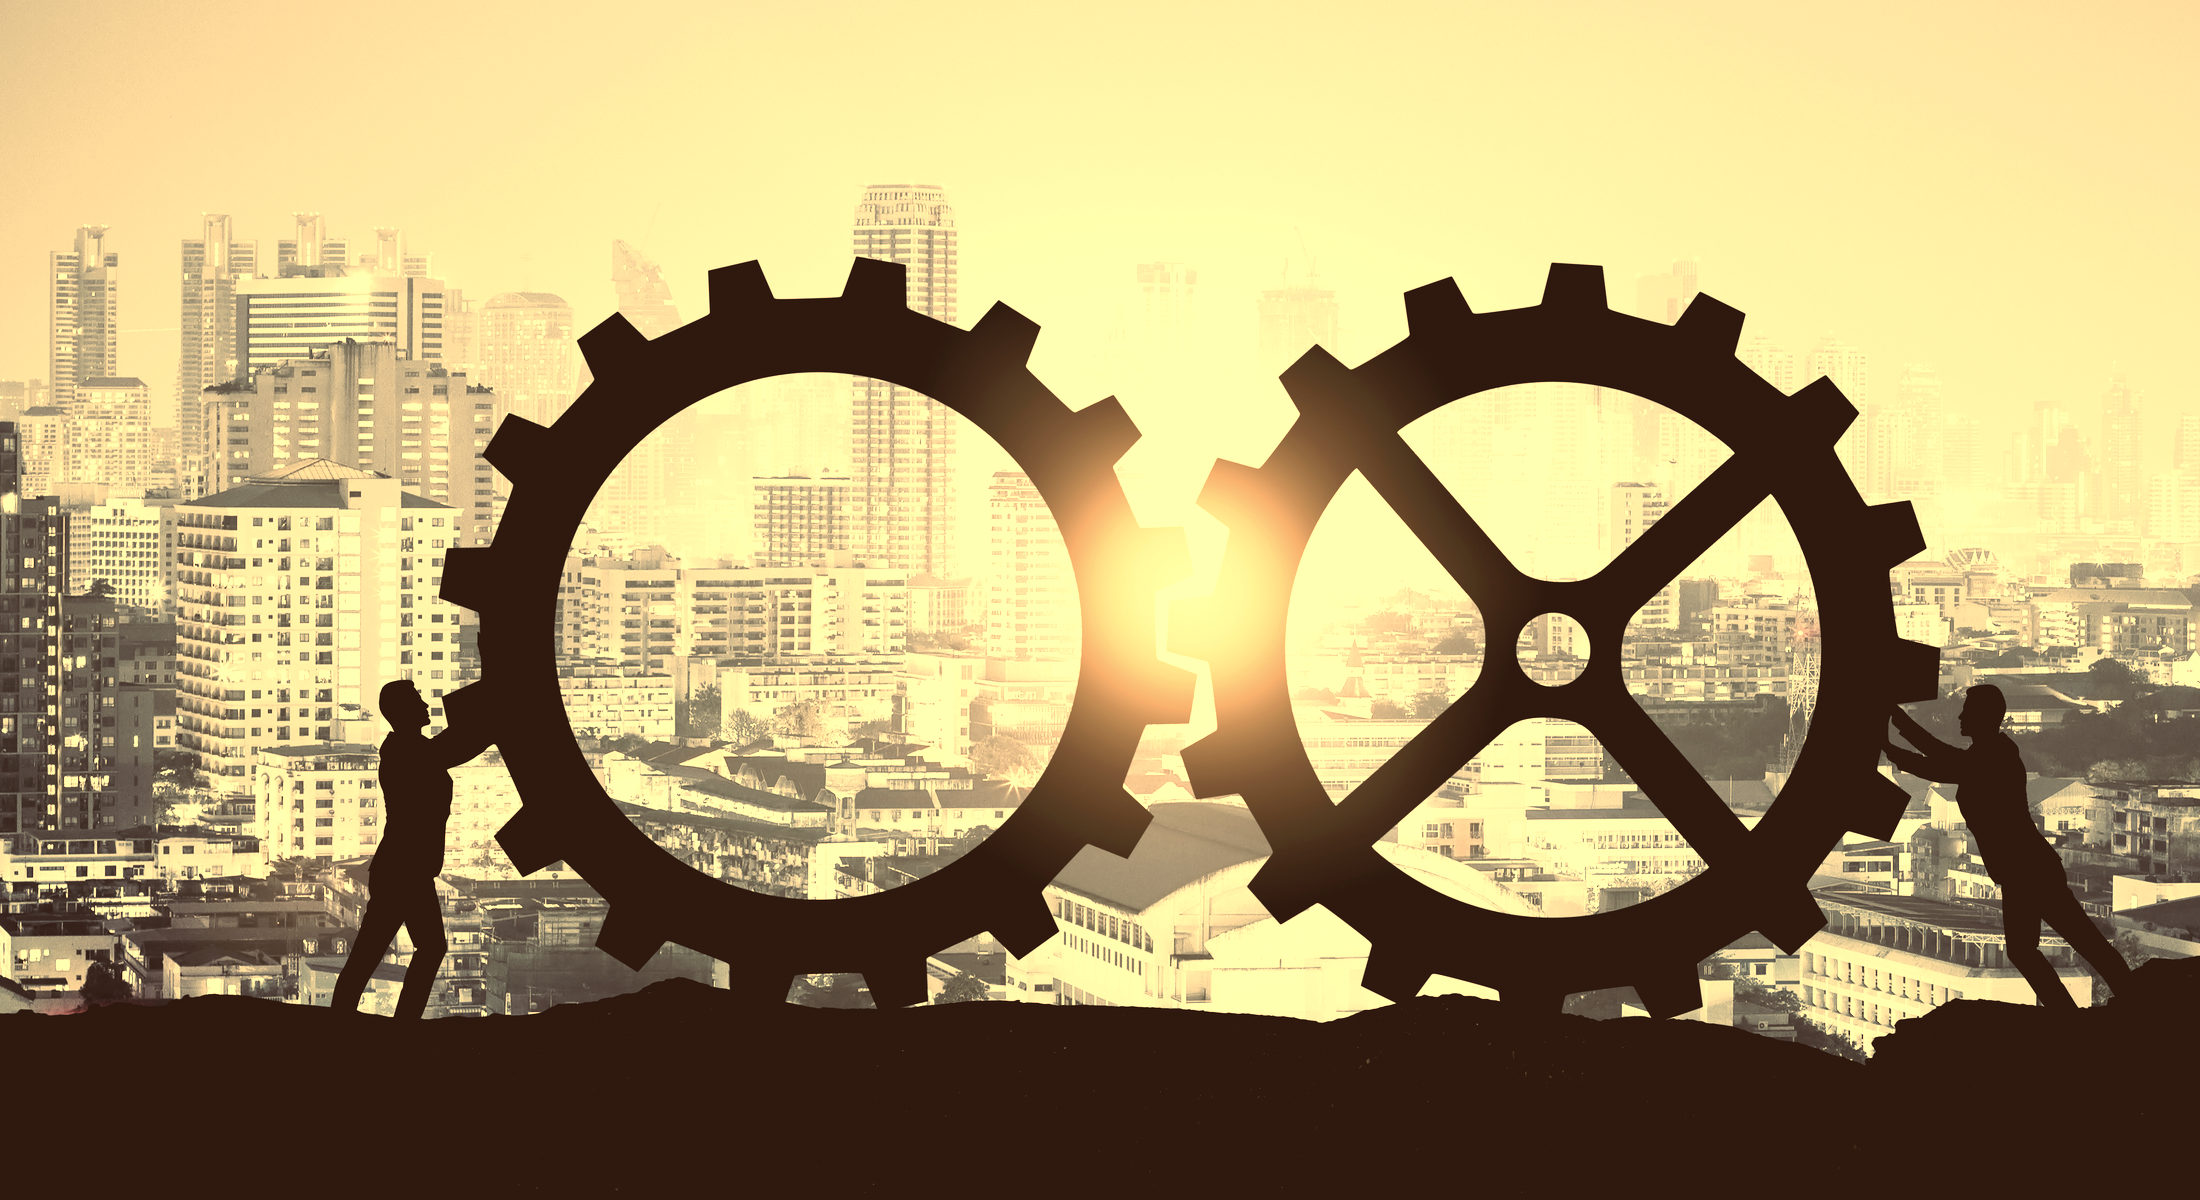
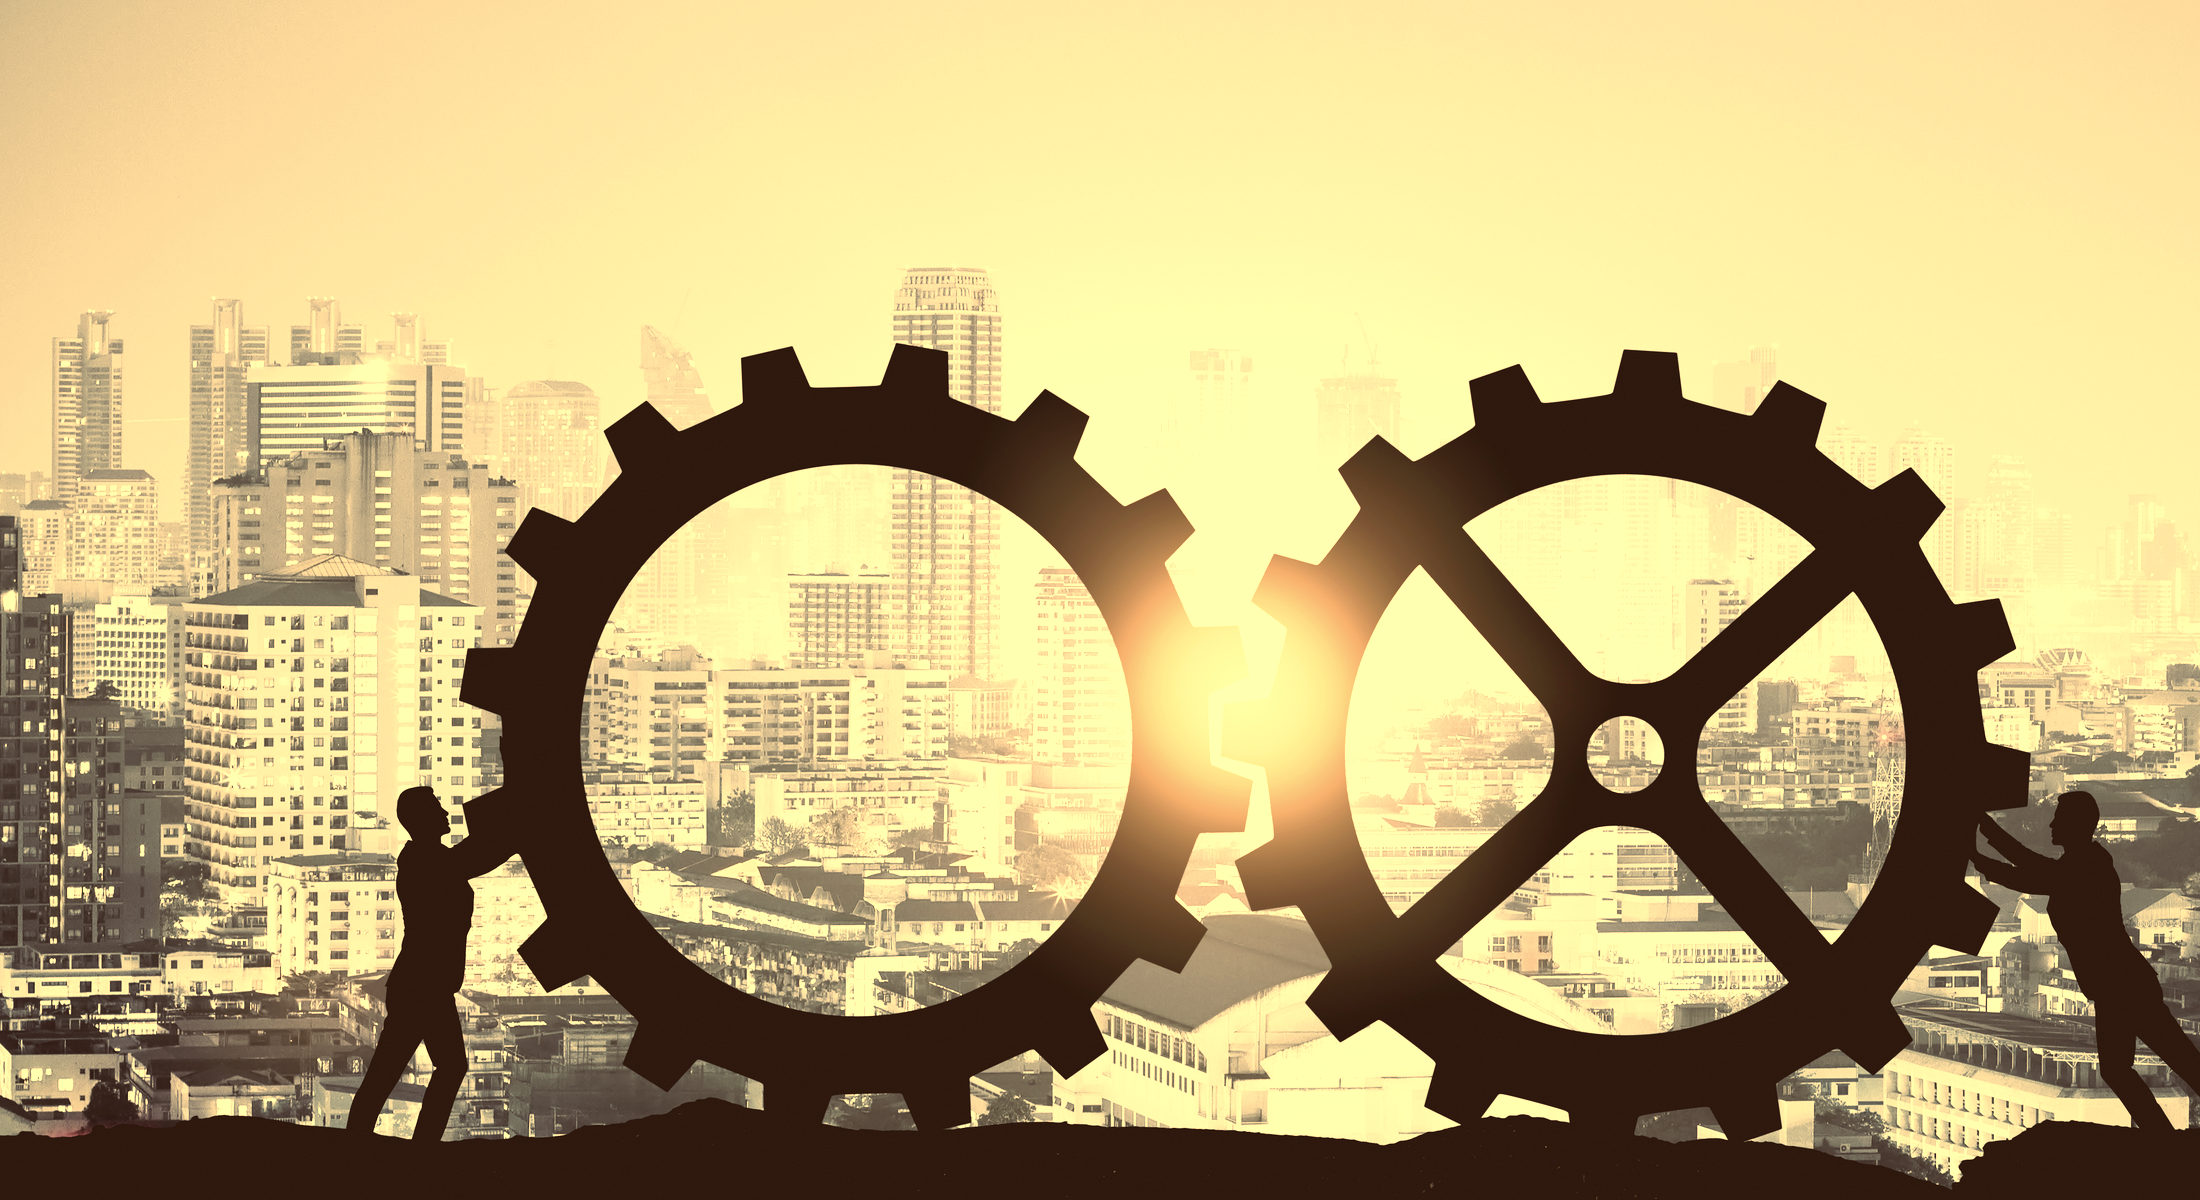
Platform hero: push the composition right and frame higher
The subject sat dead centre in the source and the crop limiter only allowed ten
percent off the width, so it could never reach the target position. This image
is now allowed a deeper crop, which lands it at 58 percent.

Stopped short of the full shift: going further magnified the gear enough to cut
off the second one and both figures, and the meshing gears are the whole point
of the picture. Framed high as well, which drops most of the flat black lower
third the source carries.

diff --git a/build/sideaware.py b/build/sideaware.py
@@ -32,7 +32,7 @@ PLAN = [
     ("plat-integration",  "r", 0.52, False, 1.08, 0.45),
     ("home-work",         "l", 0.30, False, None, 0.52),   # cranes left, open sky right
     ("plat-deploy",       "r", 0.62, False, 1.06, 0.48),
-    ("plat-hero",         "r", 0.50, False, 1.02, 0.30),   # crop up, the lower third is flat black
+    ("plat-hero",         "r", 0.50, False, 1.02, 0.12),   # frame high, the lower third is flat black
     ("cap-hero",          "r", 0.72, False, 1.30, 0.50),   # dark control room, needs a real lift
     ("uc-hero",           "r", 0.45, True,  1.02, 0.62),   # mirror so the pair sits right, frame low for the crane
     ("company-hero",      "r", 0.72, False, 1.02, 0.42),   # group already sits right, only a light touch
@@ -46,6 +46,9 @@ MILD = {"area-operations", "fam-pulse", "area-owners", "company-hero"}     # a g
 TARGET = {"l": 0.34, "r": 0.66}   # pulled in from the edges so less width is thrown away
 MIN_KEEP = 0.90                    # never crop away more than this much width
 KEEP_ALL = {"cap-hero", "company-hero"}   # the group is the subject, keep the full width
+# a subject sitting dead centre cannot reach the target on a 10% crop, so these
+# are allowed to give up more width
+DEEP = {"plat-hero": 0.86}
 
 
 def build(name, side, subj, mirror, lift, anchor):
@@ -59,7 +62,7 @@ def build(name, side, subj, mirror, lift, anchor):
 
     # narrowest crop that still reaches the target, so we throw away as little as possible
     frac, left_f, landed = 1.0, 0.0, subj
-    floor = 100 if name in KEEP_ALL else int(MIN_KEEP * 100)
+    floor = 100 if name in KEEP_ALL else int(DEEP.get(name, MIN_KEEP) * 100)
     for f in [x / 100.0 for x in range(100, floor - 1, -1)]:
         L = subj - f * t
         L = max(0.0, min(1.0 - f, L))
